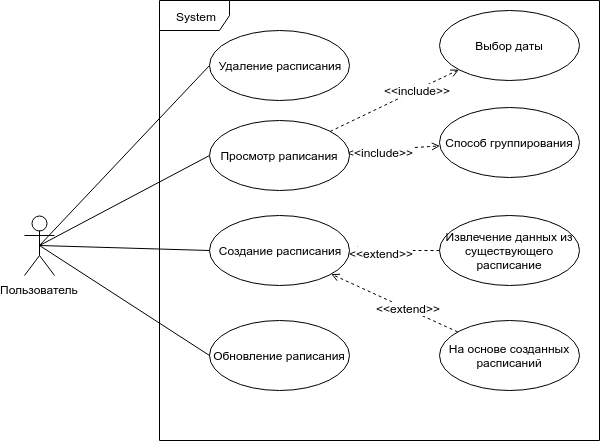
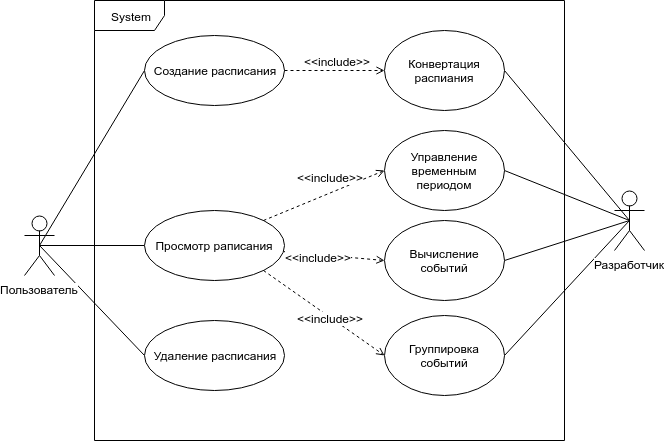
Добавленны диаграммы

diff --git a/src/applications/a.tex b/src/applications/a.tex
@@ -1,164 +1,7 @@
 \appsection{Приложение А} \hypertarget{app-a}{\label{app-a}}
 
-\centering{Web APIs}
+\centering{Исходные данные}
 
-\begin{multicols}{4}
-\textbf{A}
-\\ Alarm API
-\\ Ambient Light Events
-\\ App Cache
-\\ Application Compatibility Layer
-\\ Apps
-\\ Archive API
-\\ Audio Channels API
-\\ \textbf{B}
-\\ Background Tasks
-\\ Battery API
-\\ Beacon
-\\ Bluetooth API
-\\ Bluetooth API (Firefox OS)
-\\ Broadcast Channel API
-\\ Browser API
-\\ \textbf{C}
-\\ CSS Counter Styles
-\\ CSS Font Loading API 
-\\ CSSOM
-\\ CSSOM View
-\\ Camera API
-\\ Canvas API
-\\ Channel Messaging API
-\\ Clipboard API
-\\ Console API
-\\ Contacts API
-\\ Credential Management API
-\\ \textbf{D}
-\\ DOM
-\\ DOM (Non-standard)
-\\ DOM Events
-\\ Data Store API
-\\ Device Orientation Events
-\\ Device Storage API
-\\ Directory Upload API
-\\ Download API
-\\ \textbf{E}
-\\ Encoding API
-\\ Encrypted Media Extensions
-\\ Engineering Mode API
-\\ \textbf{F}
-\\ FMRadio API
-\\ Fetch API 
-\\ File API
-\\ File System API 
-\\ Firefox OS
-\\ Frame Timing API
-\\ Fullscreen API
-\\ \textbf{G}
-\\ Gamepad API 
-\\ Geolocation API
-\\ Geometry Interfaces
-\\ \textbf{H}
-\\ HTML DOM
-\\ HTML Drag and Drop API
-\\ HTML Microdata API
-\\ HTML Undo Manager API
-\\ High Resolution Time
-\\ \textbf{I}
-\\ Identity
-\\ Idle API
-\\ Image Capture API
-\\ IndexedDB
-\\ Input Port API
-\\ Inter-App Connection API
-\\ Intersection Observer API
-\\ \textbf{K}
-\\ Kill Switch API
-\\ \textbf{L}
-\\ L10N API
-\\ Long Tasks
-\\ \textbf{M}
-\\ MSISDN Verification API
-\\ Media Capabilities API 
-\\ Media Capture and Streams
-\\ Media Session API
-\\ Media Source Extensions
-\\ MediaStream Recording
-\\ Mobile Connection API
-\\ Mobile Messaging API
-\\ Mozilla Payment API
-\\ \textbf{N}
-\\ NFC API
-\\ Navigation Timing
-\\ Network Information API 
-\\ Network Stats API
-\\ \textbf{P}
-\\ Page Visibility API
-\\ Payment Request API
-\\ Performance API
-\\ Performance Timeline API
-\\ Permissions API
-\\ Permissions API (Firefox OS)
-\\ Pointer Events
-\\ Pointer Lock API
-\\ Power Management API
-\\ Presentation API 
-\\ Proximity Events 
-\\ Push API 
-\\ \textbf{R}
-\\ Request Sync API
-\\ Resource Statistics API
-\\ Resource Timing API
-\\ \textbf{S}
-\\ SVG
-\\ Screen Capture API
-\\ Screen Orientation API
-\\ Selection API
-\\ Server Sent Events
-\\ Service Workers API
-\\ Settings API
-\\ Simple Push API
-\\ Social API
-\\ Speaker Manager API
-\\ Storage
-\\ Streams 
-\\ System Update API
-\\ \textbf{T}
-\\ TCP Socket API
-\\ TV API
-\\ Time and Clock API
-\\ Touch Events
-\\ \textbf{U}
-\\ UDP Socket API
-\\ URL API
-\\ User Timing API
-\\ \textbf{V}
-\\ Vibration API
-\\ Voicemail API
-\\ \textbf{W}
-\\ Wake Lock API
-\\ Web Activities
-\\ Web Animations 
-\\ Web Audio API
-\\ Web Authentication API
-\\ Web Components
-\\ Web Crypto API
-\\ Web MIDI API
-\\ Web Manifest
-\\ Web Notifications
-\\ Web Speech API
-\\ Web Storage API
-\\ Web Telephony API
-\\ Web Workers API
-\\ WebGL
-\\ WebRTC
-\\ WebVR API
-\\ WebVTT
-\\ Websockets API
-\\ WiFi Information API
-\\ WiFi P2P API
-\\ WiFi Tethering API
-\\ \textbf{X}
-\\ XDomain
-\\ XMLHttpRequest
-\end{multicols}
+\lstinputlisting[numbers=left]{src/data/schedule.json}
 
 \clearpage

diff --git a/src/chapters/analys.tex b/src/chapters/analys.tex
@@ -238,16 +238,20 @@ SHEView - приложение для операционной системы An
   \end{tabularx}
 \end{tbl}
 
-Сформулируем общие требования от лица пользователя к процессу автоматизации <<планирования на основе комплексного расписания>>.
+Сформулируем общие требования от лица пользователя к процессу автоматизации <<планирования на основе комплексного расписания>>:
 
 \begin{easylist}
-  & Добавление комплексного расписания в систему, путем извлечения данных из существующего расписания
+  & Добавление комплексного расписания в систему
+  && Путем извлечения данных из существующего расписания
+  && Путем комбинации расписаний
   & Просмотр комплексного расписания
   && Выбор способа представления
   && Выбор периода представления
+  & Удаление расписания
+  & Обновление расписания
 \end{easylist}
 
-Требования от лица разработчиков
+Требования от лица разработчиков:
 
 \begin{easylist}
   & Дружественный программный интерфейс
@@ -255,7 +259,7 @@ SHEView - приложение для операционной системы An
   & Минимальное количество рутинных операций
 \end{easylist}
 
-Пользовательские требования можно представить в виде UseCase диаграммы изображенной на рисунке \ref{use-case}.
+Функциональные требования можно представить в виде UseCase диаграммы изображенной на рисунке \ref{use-case}.
 
 \addimg{use_case}{0.8}{UseCase диаграмма}{use-case}
 

diff --git a/src/chapters/design.tex b/src/chapters/design.tex
@@ -1,5 +1,9 @@
 \section{Проектирование}
 
+\subsection{Постановка задачи}
+
+Для упрощения процесса проектирования, формализуем исходные данные.
+
 \subsection{Определение инструментария}
 
 Определим инструментарий для реализации системы.

diff --git a/index.tex b/index.tex
@@ -8,8 +8,7 @@
 \input{src/annotation}
 
 % Содержание
-\tableofcontents
-\clearpage
+\input{src/content}
 
 % Список сокращений
 \input{src/golossary}

diff --git a/src/content.tex b/src/content.tex
@@ -1,0 +1,2 @@
+\tableofcontents
+\clearpage

diff --git a/plan.md b/plan.md
@@ -31,15 +31,15 @@
 - Требования каждого ЗЛ
 - UseCase
 
-## ПОСТАНОВКА ЗАДАЧИ
+# ПРОЕКТИРОВАНИЕ
+
+Описание и обоснование выбора способов и инструментов реализации
+
+## Постановка задачи
 
 - Исходные данные
 - Идея (функция расписания)
 - Процесс представления
-
-# ПРОЕКТИРОВАНИЕ
-
-Описание и обоснование выбора способов и инструментов реализации
 
 ## Способ реализации
 
